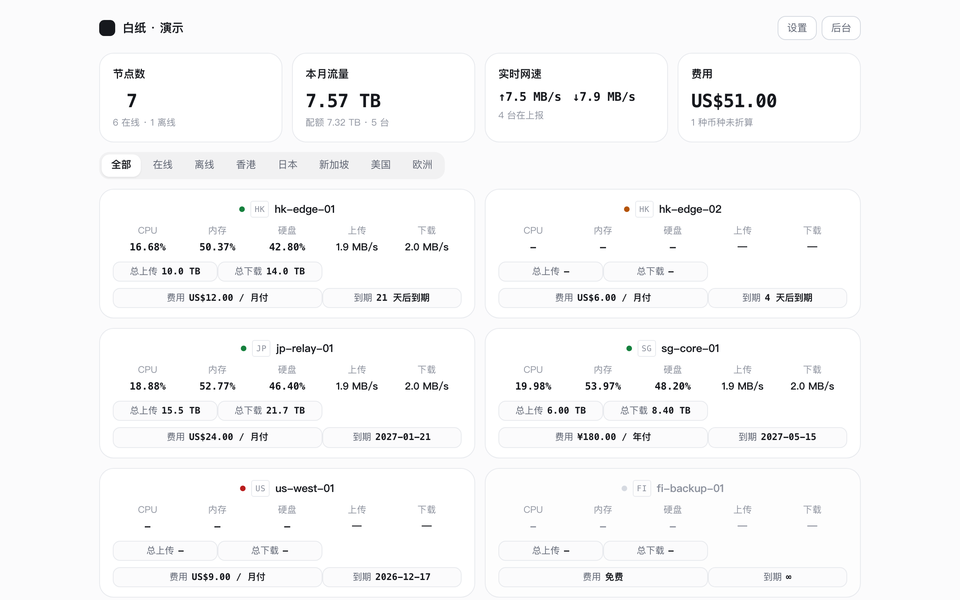
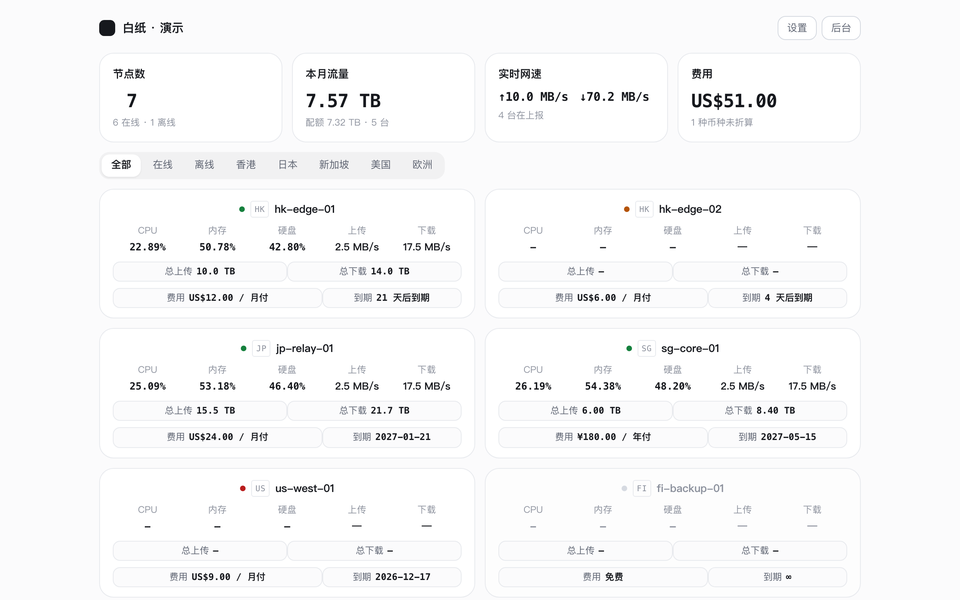
修横条的轨道号：两栏只覆盖了卡片左半边
卡片是 10 轨网格，但两条横条写的是 4/7、1/4 这种按 6 轨算的坐标，
于是两条加起来只铺满左半张卡，右半边整行是空的。改为 1/6 与 6/11：
各占 5 轨，等宽，且从卡片左内边铺到右内边。费用与到期按 6:4 分，
因为价格带符号和周期、到期只有一个日期。

diff --git a/src/index.css b/src/index.css
@@ -582,31 +582,28 @@ html:not([data-hairline]) .chart {
 
 /* The bars and the plan capsules share the same five-track cells, so a capsule
    sits under a bar and the pair reads as one table of four figures. */
-/* The band is two equal halves, and so is the plan row below it.
+/* The band and the plan row, placed on the card's ten tracks.
  *
- * An even split cannot land on a column edge -- ten tracks divide into five
- * columns of two, so half the card is two and a half columns. The earlier
- * layout gave 2:3 to force the seam onto a column edge, which made the two
- * traffic figures visibly unequal: 总上传 was a third narrower than 总下载, and
- * the pair reads as one figure in two directions, so any difference in their
- * width reads as a difference in the numbers. Equal halves are what the eye
- * expects; the seam sitting mid-column is invisible next to that.
+ * The two traffic bars are five tracks each: ten tracks divide by two, so they
+ * are equal AND span the card edge to edge. Anterior versions placed them at
+ * 1/4 and 4/7 -- track numbers written for a six-track grid -- so both bars
+ * together covered only the left half of the card and the right half of the
+ * row was empty.
+ *
+ * The plan row splits 6:4 rather than 5:5: a price carries a symbol, an amount
+ * and a cycle ("US$12.00 / 月付") while an expiry carries a date
+ * ("2027-01-21"), and an even split truncated the price on every card.
  */
 .card .total:nth-of-type(1) {
   grid-row: 3;
-  grid-column: 1 / 4;
+  grid-column: 1 / 6;
 }
 
 .card .total:nth-of-type(2) {
   grid-row: 3;
-  grid-column: 4 / 7;
+  grid-column: 6 / 11;
 }
 
-/* The plan row splits 3:2 rather than in half: a price carries a symbol, an
-   amount and a cycle ("US$12.00 / 月付"), while an expiry carries a date
-   ("2027-01-21"). Equal halves truncated the price on every card. The two
-   traffic bars above stay equal because those two figures really are the same
-   shape. */
 .card .total:nth-of-type(3) {
   grid-row: 4;
   grid-column: 1 / 7;
